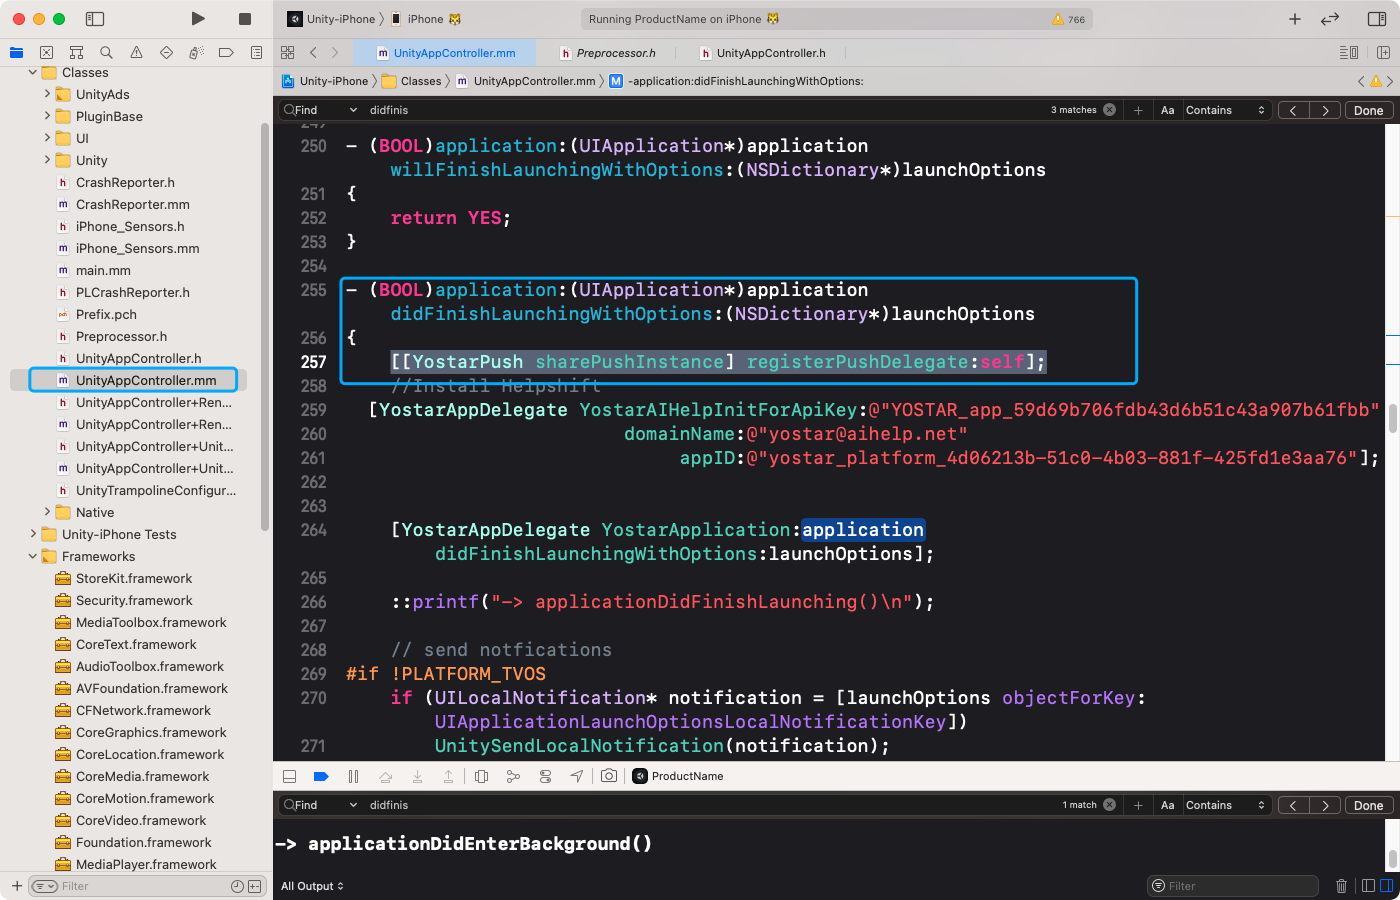
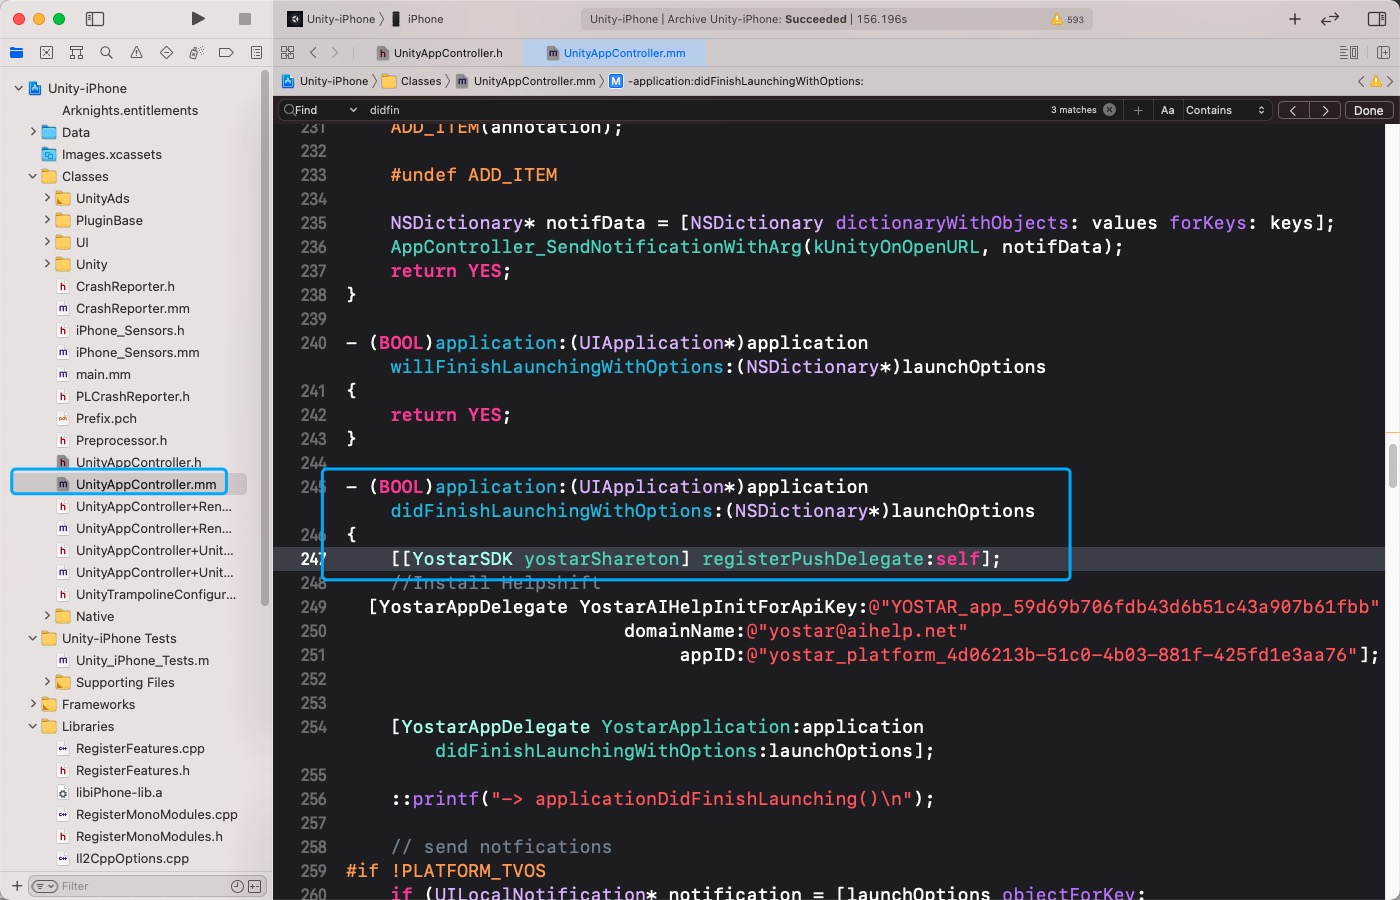
推送文档更新

diff --git a/docs/ZH/Unity3D/2.0.5/edit_resources.md b/docs/ZH/Unity3D/2.0.5/edit_resources.md
@@ -168,9 +168,9 @@ Google依赖参数对应：
 
 
 ### iOS端接入远程推送功能（可选）
-#### 1. 在`UnityAppController.h`中导入推送头文件 `YostarPush.h`。如果需要处理通知内容需要遵从代理`YostarPushDelegate`，实现协议。如下图所示:
+#### 1. 在`UnityAppController.h`中导入推送头文件 `YostarSDK.h`。如果需要处理通知内容需要遵从代理`YostarPushDelegate`，实现协议。如下图所示:
 ![notification_code_1](https://raw.githubusercontent.com/Yostardev/yostarsdk/master/docs/_media/notification_code_1.png)
-#### 2. 在`UnityAppController.mm`文件中的`- (BOOL)application:(UIApplication*)application didFinishLaunchingWithOptions:(NSDictionary*)launchOptions`中添加如下代码`[[YostarPush sharePushInstance] registerPushDelegate:self];`，如下图所示：
+#### 2. 在`UnityAppController.mm`文件中的`- (BOOL)application:(UIApplication*)application didFinishLaunchingWithOptions:(NSDictionary*)launchOptions`中添加如下代码`[[YostarSDK yostarShareton] registerPushDelegate:self];`，如下图所示：
 ![notification_code_2](https://raw.githubusercontent.com/Yostardev/yostarsdk/master/docs/_media/notification_code_2.png)
 #### 3. 如果需要处理通知内容，需要在以下方法中实现处理逻辑：
 ```objectivec
